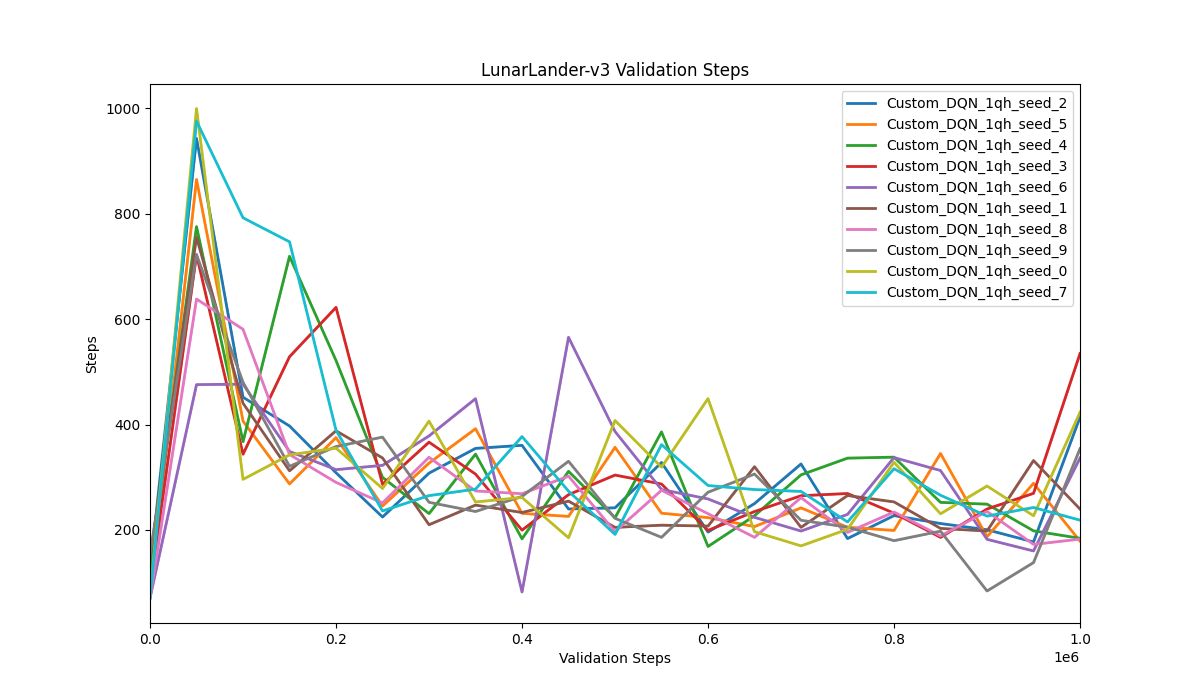
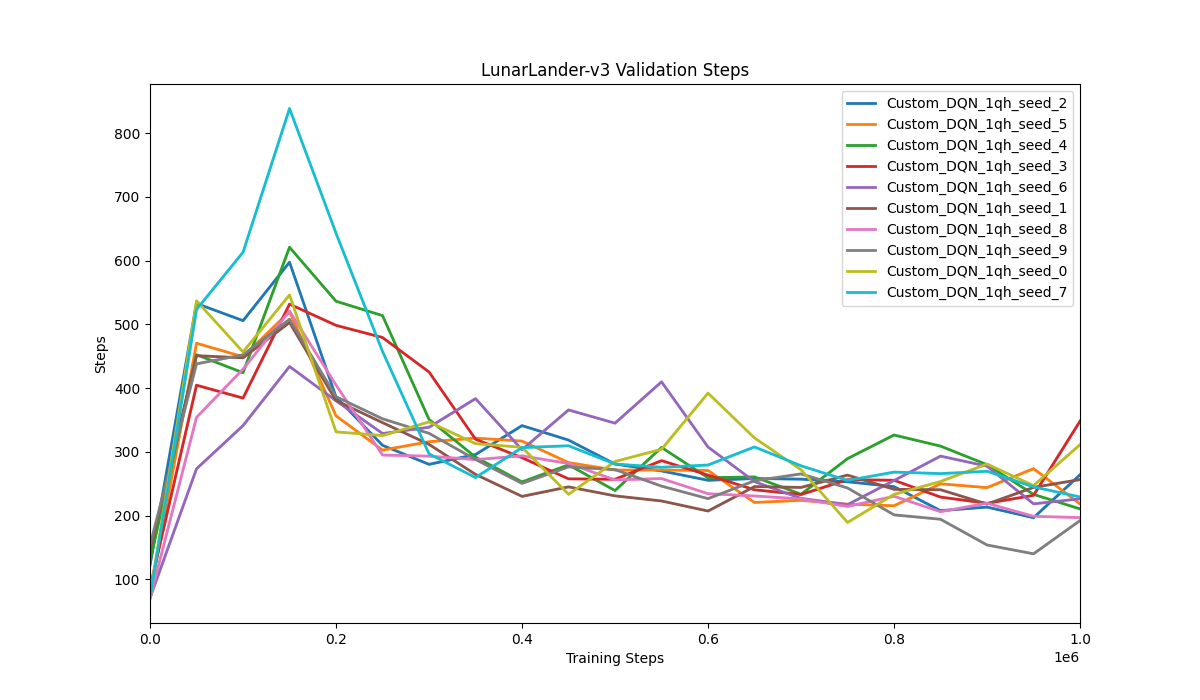
fix seeds plots x axis

diff --git a/src/plot_results.py b/src/plot_results.py
@@ -165,12 +165,12 @@ def load_seeds(base_dir, algo_name, load_train_results=False, apply_rolling=True
 
 
 def plot_seeds():
-    # env_name = "LunarLander-v3"
-    env_name = "FrozenLake-v1"
+    env_name = "LunarLander-v3"
+    # env_name = "FrozenLake-v1"
 
     base_dir = f"results/{env_name}/1.0M"
 
-    algo_name = "SB3_DQN"
+    algo_name = "Custom_DQN_strict_ebql_20qh"
 
     seeds_save_dir = f"{base_dir}/{algo_name}/_plots"
 
@@ -226,8 +226,8 @@ def main_plots():
 
 
 def main():
-    main_plots()
-    # plot_seeds()
+    # main_plots()
+    plot_seeds()
 
 
 if __name__ == "__main__":
